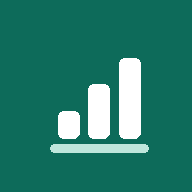
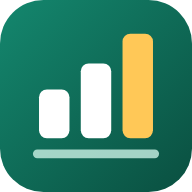
ExTracker Version 1 is Deployed

diff --git a/index.html b/index.html
@@ -5,7 +5,7 @@
 <link rel="manifest" href="manifest.webmanifest">
 <meta name="theme-color" content="#161f1c" media="(prefers-color-scheme: dark)"><meta name="theme-color" content="#ffffff" media="(prefers-color-scheme: light)">
 <link rel="icon" href="icon-192.png">
-<link rel="apple-touch-icon" href="icon-192.png">
+<link rel="apple-touch-icon" href="icon-maskable-192.png">
 <meta name="apple-mobile-web-app-capable" content="yes">
 <style>
 :root{--bg:#f2f4f1;--card:#fff;--tx:#14201d;--mut:#5c6b67;--bd:#dde3df;--ac:#0d6b5a;--onac:#fff;--acs:#e3f1ed;--ok:#14794f;--bad:#b83a22;--warn:#9a5b00;--neo:#3565c9;--pre:#b84f86;--sh:0 1px 2px rgba(20,32,29,.06),0 4px 14px rgba(20,32,29,.05);--c1:#0d6b5a;--c2:#3565c9;--c3:#d08a1c;--c4:#b84f86;--c5:#6b7fd7;--c6:#7a9a3a;--c7:#c4573a;--c8:#7b8794;--banbg:#fff4d6;--banbd:#efd489;--bantx:#5c4200;box-sizing:border-box;color-scheme:light dark}
@@ -1449,5 +1449,45 @@ async function run(){busy=true;const e=mk();e.classList.remove('drag');e.classLi
 .cv td>.shr>.bar{grid-row:2;grid-column:1/-1;min-width:0;width:100%}
 }
 </style>
+<script>/* Back gesture inside Hub (phone layout only). History API, URL never changes. History depth mirrors screen depth:
+   Hub-section lists (st ob bal bud rep) = 1, settlement form (sef) = 2, everything else = 0. Reconciled after every render:
+   missing levels are pushed (user taps), extra levels are popped silently (history.go(-n) + ignore counter).
+   A real Back (popstate): sef -> Settlements list, Hub-section list -> Hub list. Changes only which screen is shown, never data. */
+(function(){
+var SEC=['st','ob','bal','bud','rep'],cur=0,ign=0,exp=[],dirty=false,tm=null;
+function phone(){return window.innerWidth<=1139}
+function want(){var v=st.view;return v==='sef'?2:SEC.indexOf(v)>=0?1:0}
+function hs(){var s=history.state;return s&&typeof s.exd==='number'?s.exd:0}
+function arm(){if(tm)clearTimeout(tm);tm=setTimeout(function(){tm=null;if(ign>0){ign=0;exp=[];cur=hs();dirty=false;rec()}},1500)}
+function rec(){
+ if(!phone())return;
+ if(ign>0){dirty=true;return}
+ var w=want();
+ while(cur<w){try{history.pushState({exd:cur+1},'');cur++}catch(e){cur=w}}
+ if(cur>w){var n=cur-w;ign++;exp.push(w);cur=w;arm();try{history.go(-n)}catch(e){ign--;exp.pop()}}
+}
+var _rb=render;
+render=function(){var r=_rb.apply(this,arguments);try{rec()}catch(e){}return r};
+addEventListener('popstate',function(){
+ var d=hs();
+ if(ign>0){
+  if(d===exp[0]){ign--;exp.shift();cur=d;if(!ign){if(tm){clearTimeout(tm);tm=null}if(dirty){dirty=false;rec()}}return}
+  ign=0;exp=[];dirty=false  /* a real Back arrived while a silent pop was pending: treat it as real */
+ }
+ cur=d;
+ if(!phone())return;
+ try{
+  if(!document.documentElement.classList.contains('wl-on')){
+   var v=st.view;
+   if(v==='sef'){go(d>=1?'st':'hub');return}
+   if(SEC.indexOf(v)>=0&&d===0){go('hub');return}
+  }
+  rec();
+ }catch(e){}
+});
+cur=hs();
+setTimeout(function(){try{rec()}catch(e){}},0); /* reload / restore while history says "deep": normalise silently */
+})();
+</script>
 <script>if('serviceWorker' in navigator&&/^https?:$/.test(location.protocol)){addEventListener('load',function(){navigator.serviceWorker.register('sw.js').catch(function(){})})}</script>
 </body></html>
